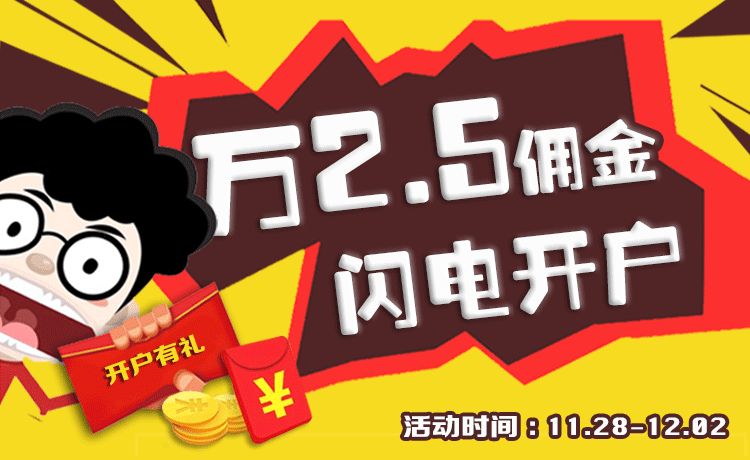
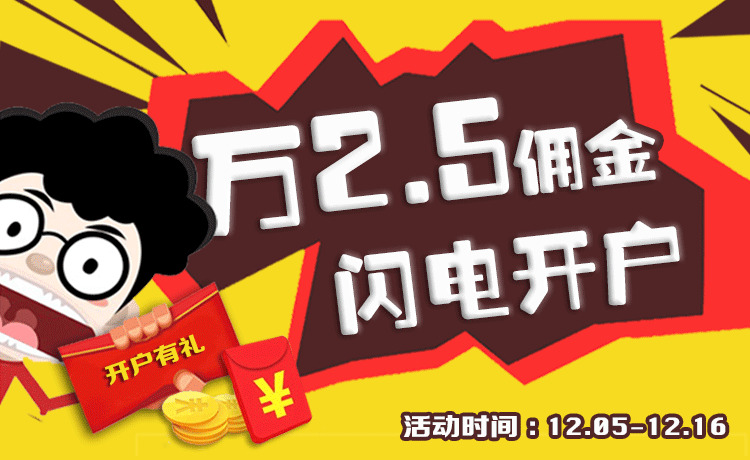
2016.12.5活动

diff --git a/index.html b/index.html
@@ -18,13 +18,13 @@
     <div class="container">
         <div class="inside">
             <div class="wt-title"><strong>活动周期</strong></div>
-            <p class="wt-text">2016年11月28日-2016年12月2日</p>
+            <p class="wt-text">2016年12月5日-2016年12月16日</p>
             <div class="wt-title"><strong>活动对象</strong></div>
             <p class="wt-text text-s">《选股宝》新开户用户均可参与</p>
-            <div class="wt-title wt-title-l"><strong>开户礼品设置</strong></div>
+            <div class="wt-title wt-title-l"><strong>开户礼品</strong></div>
             <div class="up">
                 <p>
-                    <strong>幸运大奖 </strong>: KHL大陆冰球联赛上海赛区门票
+                    <strong>幸运大礼 </strong>: 高端高尔夫运动品牌HONMA高尔夫球帽子一顶
                 </p>
                 <p>
                     <strong>一重礼</strong>：通过选股宝开户成功的用户，平安证券将赠送200MB流量（价值20元）
@@ -47,33 +47,79 @@
                 <strong>活动说明</strong>
             </div>
             <div class="up">
-                <p>1、"幸运大礼"礼品说明：活动期间在选股宝开户成功的用户将免费获得KHL大陆冰球联赛上海赛区门票一张，数量有限，先到先得，送完即止。</p>
-                <p class="p1">大陆冰球联赛Kontinental Hockey League（KHL）是一个在欧亚大陆推动冰球运动的国际锦标赛事，大陆冰球联赛（"KHL"）与北美冰球联赛（"NHL"）并列为世界最顶级的两大冰球联赛。 KHL是全球国际化程度最高的冰球联赛组织之一；
-                   </p>
-                <p></p>
-                <p ><strong>开赛时间</strong>： 2016年12月3日 周六 17:30</p>
-                <p> </p>
-                <p ><strong>详细地址</strong>：上海市浦东新区齐河路471号近云莲路；</p>
-                <p> </p>
-                <p>2、"开户有礼"活动仅限通过选股宝新开户的用户参与；每个新开户用户只有一次参与机会；</p>
-                <p>3、点击页面“立即开户”按钮即可进入开户，或进入选股宝上端导航“我的主页”亦可开户；</p>
+                <p>1、礼品说明：我们会在开户成功的用户中随机抽取60名幸运用户，免费送出总价值30000元的HONMA品牌高尔夫球帽子（每位幸运用户限领一份）</p>
+                <p>2、"开户有礼"活动仅限通过选股宝新开户的客户参与；每位新开户用户享有一次参与机会；</p>
+                <p>3、点击页面"立即开户"按钮即可进入开户，或进入选股宝"我的主页"进行开户，开户如出现中断，下次再申请可使用原手机号登录，继续上次开户；</p>
                 <p>4、所赠礼品不得兑换现金；</p>
-                <p>5、礼品发放：获得“幸运大礼”的用户，选股宝工作人员将会与您直接联系并进行礼品配送；</p>
-                <p>流量充值类礼品在开户成功后五个工作日内到账，开户佣金优惠开户即享； </p>
-                <p>6、感谢平安证券提供流量充值礼品赞助，如有疑问请向平安证券进行咨询；</p>
-                <p>7、对本活动有任何意见，欢迎进入“我的主页”进行反馈。</p>
-                <!--footer部分开始-->
-                <footer>
-                    <div class="footer-img">
-                        <img src="./images-wt/footer-0.png" alt="选股宝">
+                <p>5、礼品发放：获得"幸运大礼"的用户，选股宝工作人员将会与您直接联系并进行礼品配送，请保持手机畅通；</p>
+                <p class="p1">流量充值类礼品在用户开户成功后五个工作日内到账，开户佣金优惠开户即享；</p>
+                <p>6、对本活动有任何意见，欢迎进入"我的主页"进行反馈。</p>
+                <div class="listbox">
+                    <p>感谢高端高尔夫球运动品牌HONMA为本次活动提供赞助；</p>
+                    <p>同时感谢平安证券提供流量充值礼品赞助，对流量充值礼有疑问请向平安证券进行咨询；</p>
+                    <p class="p1"><strong>以下为11月28日至12月2日免费赠送580元冰球门票活动的中奖名单：</strong></p>
+                    <div class=" listitems  clearfix ">
+                        <span><strong>活动中奖名单</strong> </span> <span><strong>活动中奖名单</strong></span>
+                        <span>189****8986</span><span>156****4724</span>
+                        <span>189****3772</span><span>155****6718</span>
+                        <span>189****0542</span><span>152****1118</span>
+                        <span>189****5381</span><span>152****5471</span>
+                        <span>189****9035</span><span>151****2603</span>
+                        <span>189****0415</span><span>151****4845</span>
+                        <span>189****4010</span><span>151****2508</span>
+                        <span>189****7285</span><span>151****9378</span>
+                        <span>188****1522</span><span>150****1841</span>
+                        <span>188****1799</span><span>150****6893</span>
+                        <span>188****0012</span><span>150****6870</span>
+                        <span>188****1901</span><span>139****6698</span>
+                        <span>187****7110</span><span>139****9963</span>
+                        <span>187****7674</span><span>139****7623</span>
+                        <span>186****8599</span><span>139****7603</span>
+                        <span>186****5908</span><span>138****3586</span>
+                        <span>186****1199</span><span>138****3229</span>
+                        <span>186****0608</span><span>138****4004</span>
+                        <span>186****8246</span><span>138****3706</span>
+                        <span>186****0829</span><span>138****1660</span>
+                        <span>185****6783</span><span>138****0910</span>
+                        <span>185****3597</span><span>137****0815</span>
+                        <span>185****2191</span><span>137****0718</span>
+                        <span>185****7878</span><span>137****0704</span>
+                        <span>183****7081</span><span>137****2012</span>
+                        <span>183****7145</span><span>137****2228</span>
+                        <span>182****0388</span><span>137****6477</span>
+                        <span>181****1008</span><span>137****1260</span>
+                        <span>181****5186</span><span>136****4911</span>
+                        <span>180****3155</span><span>136****7044</span>
+                        <span>180****4069</span><span>136****0304</span>
+                        <span>180****8311</span><span>136****7692</span>
+                        <span>178****6276</span><span>136****6177</span>
+                        <span>178****6685</span><span>135****9039</span>
+                        <span>175****7661</span><span>134****1421</span>
+                        <span>173****4518</span><span>132****5183</span>
+                        <span>159****7866</span><span>1327****051</span>
+                        <span>159****4472</span><span>132****2731</span>
+                        <span>159****5928</span><span>132****5552</span>
+                        <span>159****8683</span><span>131****6836</span>
+                        <span>159****0868</span><span>131****3253</span>
+                        <span>159****1215</span><span>130****5138</span>
+                        <span>158****7528</span><span>158****7063</span>
+                        <span>158****9797</span><span>158****0970</span>
+                        <span>158****0926</span><span>157****8600</span>
+                        <span>158****2731</span><span>159****3283</span>
+                        </ul>
                     </div>
-                    <p class="footer-text">本次活动最终解释权归选股宝所有</p>
-                </footer>
+                    <!--footer部分开始-->
+                    <footer>
+                        <div class="footer-img">
+                            <img src="./images-wt/footer-0.png" alt="选股宝">
+                        </div>
+                        <p class="footer-text">本次活动最终解释权归选股宝所有</p>
+                    </footer>
+                </div>
             </div>
         </div>
     </div>
 </div>
-
 <script>
     window.onload = function () {
         if (location.href.indexOf('xgb') === -1) {
@@ -81,7 +127,6 @@
         }
     }
 </script>
-
 <script>
     (function (i, s, o, g, r, a, m) {
         i['GoogleAnalyticsObject'] = r;

diff --git a/css/index.css b/css/index.css
@@ -55,15 +55,21 @@ p {
     float: right;
 }
 
-.clearfix ::before, .clearfix::after {
-    content: "";
-    display: block;
-    visibility: hidden;
-    line-height: 0;
-    height: 0;
-    clear: both;
+/*.clearfix ::before, .clearfix::after {*/
+    /*content: "";*/
+    /*display: block;*/
+    /*visibility: hidden;*/
+    /*line-height: 0;*/
+    /*height: 0;*/
+    /*clear: both;*/
+/*}*/
+.clearfix{
+    overflow:auto;_height:1%
 }
 
+.clearfix {
+    zoom: 1;
+}
 
 /*活动页面样式开始*/
 body, html{
@@ -122,7 +128,7 @@ body, html{
 .container .wt-title-l{
     width: 1.86rem;
     background: url("../images-wt/title-long.png") no-repeat;
-    background-size:1.86rem 30px;
+    background-size:1.86rem 24px;
 }
 /*立即开户按钮*/
 .container .button {
@@ -151,7 +157,7 @@ body, html{
     word-wrap: break-word;
 }
 .up p.p1{
-    text-indent: 1.6em;
+    text-indent: 2em;
 }
 
 /*蓝色字体*/
@@ -184,6 +190,22 @@ footer{
     line-height: 0.2rem;
     margin-top: 10px;
     padding-bottom: 10px;
+}
+/*.listbox {*/
+    /*padding: 20px 10px;*/
+/*}*/
+.listbox h4 {
+    padding-top: 10px;
+    padding-bottom: 10px;
+}
+.listitems span {
+    float: left;
+    display:block;
+    width:50%;
+    height: 22px;
+    line-height: 22px;
+    text-align: center;
+
 }
 @media screen and (min-width: 375px){
     .container .login img {
